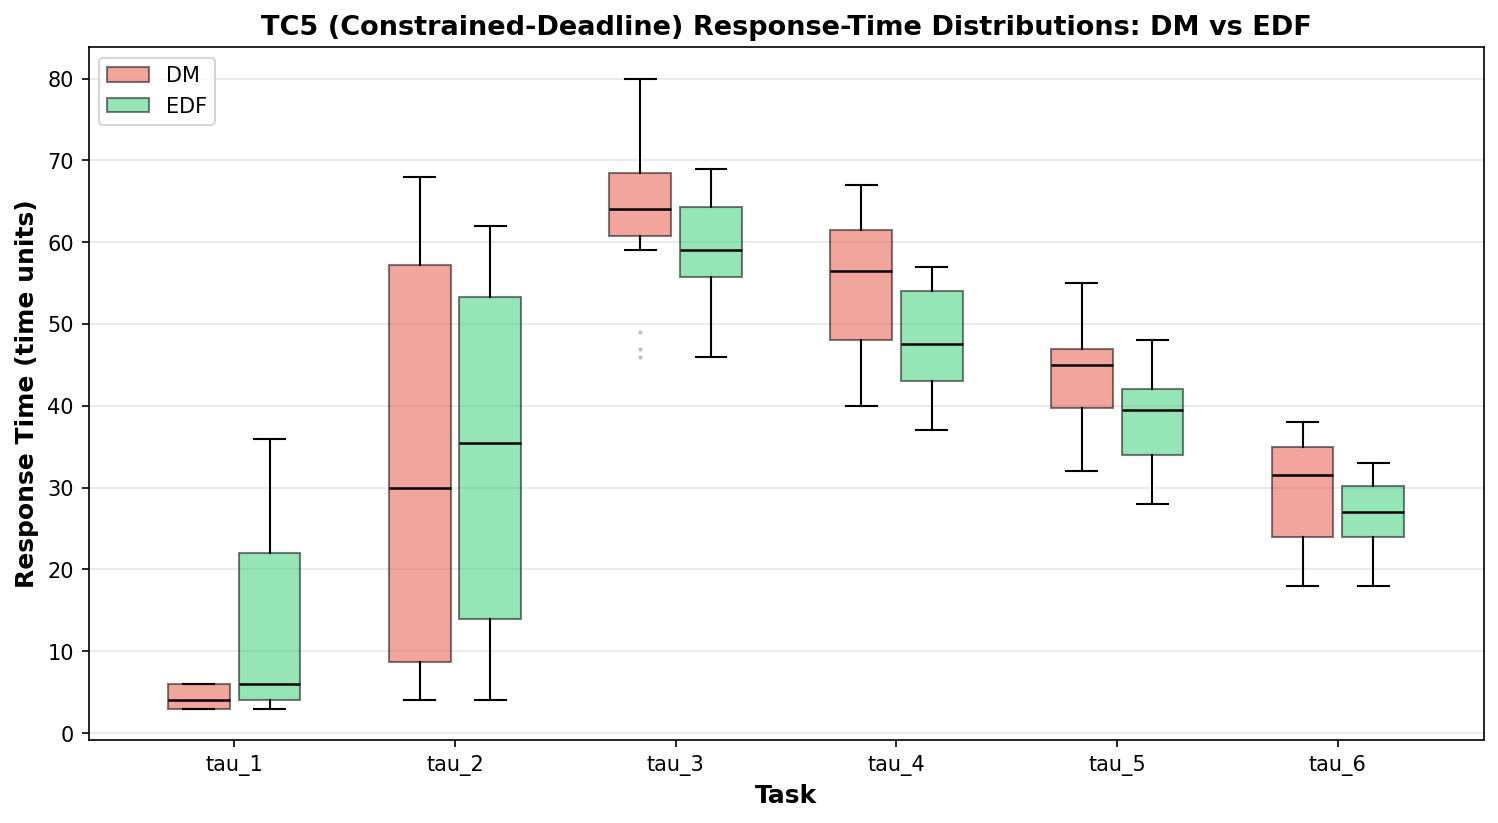
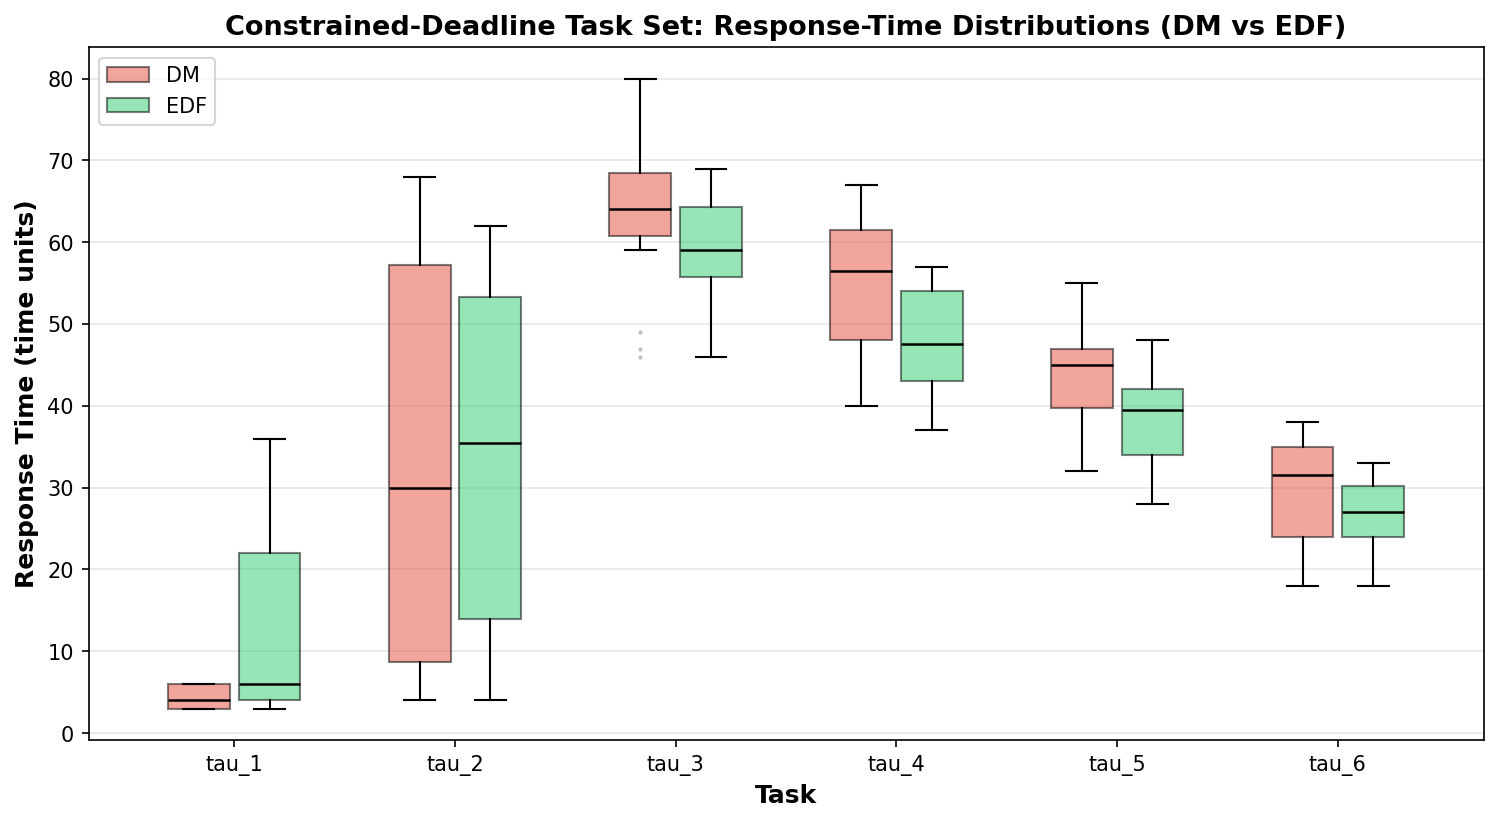
Add overload analysis, fix TC5 boxplot, add fraction-schedulable figure
Adds overload deadline-miss experiment (DM vs EDF under U>1) with CSV output,
regenerates fig8 TC5 boxplot with corrected U=0.89 utilization, adds missing
fig4 fraction-schedulable plot, and updates .gitignore.

Changed region(s): [[0.1535, 0.0, 0.8905, 0.0608]]

diff --git a/scheduler_analysis.py b/scheduler_analysis.py
@@ -7,6 +7,7 @@ from dataclasses import dataclass, field
 from typing import List, Tuple, Dict, Optional, Any
 from enum import Enum
 import random
+from scipy.stats import truncnorm
 
 
 MAX_EXACT_HYPERPERIOD = 10**7
@@ -34,14 +35,23 @@ def dm_rta(tasks: pd.DataFrame) -> Tuple[pd.DataFrame, Tuple[bool, str]]:
     Deadline Monotonic Response Time Analysis (RTA).
 
     Computes worst-case response times for each task under DM scheduling.
-    Tasks are prioritized by increasing relative deadlines.
+    Tasks are prioritized by increasing relative deadline; ties broken by
+    original task index (smaller index = higher priority).
 
-    Algorithm (Buttazzo Fig. 4.17):
-    1. Sort tasks by non-decreasing D_i (DM priority order)
+    Algorithm (Audsley et al. 1993; Buttazzo Fig. 4.17):
+    1. Sort tasks by non-decreasing D_i, breaking ties by original index.
     2. For each task i, compute R_i iteratively:
        R_i^(0) = C_i
-       R_i^(s) = C_i + sum_{h<i} ceil(R_i^(s-1) / T_h) * C_h
-       Stop when converged or R_i > D_i (deadline miss)
+       R_i^(s) = C_i + sum_{j in hp(i)} ceil(R_i^(s-1) / T_j) * C_j
+       where hp(i) is the set of tasks with strictly higher DM priority,
+       i.e. D_j < D_i, OR (D_j == D_i AND orig_index_j < orig_index_i).
+       Stop when converged or R_i > D_i (deadline miss).
+
+    Note on equal-deadline tasks: the standard formula uses D_j < D_i
+    (strict inequality), which would omit interference from tasks that share
+    the same relative deadline but have higher priority under the tie-breaking
+    rule.  By sorting on (D_i, original_index) and summing over h < i, we
+    correctly include those same-deadline, higher-priority tasks.
 
     Returns:
         tasks: DataFrame with added "Ri_DM" column
@@ -66,7 +76,11 @@ def dm_rta(tasks: pd.DataFrame) -> Tuple[pd.DataFrame, Tuple[bool, str]]:
         for iteration in range(max_iterations):
             R_old = R
 
-            # compute interference from higher-priority tasks (h < i)
+            # Interference from all tasks with strictly higher DM priority.
+            # After sorting by (Deadline, orig_idx), every task h < i has
+            # either D_h < D_i, or D_h == D_i with a smaller original index
+            # (i.e. higher tie-break priority).  Both cases contribute
+            # preemption interference.
             I = 0
             for h in range(i):
                 Ch = int(tasks.loc[h, "WCET"])
@@ -230,7 +244,11 @@ def edf_wcrt_schedule_construction(tasks: pd.DataFrame) -> Tuple[pd.DataFrame, T
         tasks["Ri_EDF"] = ["NOT_COMPUTED"] * n
         return tasks, (False, f"Hyperperiod H={H} exceeds exact-analysis cap {MAX_EXACT_HYPERPERIOD}")
 
-    #generate all jobs released in [0, H)
+    # Generate all jobs released in [0, H).  Jobs whose release time is near H
+    # may not complete until after H; the simulation loop below runs until every
+    # released job finishes, so their finish times are recorded correctly and
+    # included in the WCRT max.  Terminating at exactly H would miss those
+    # completion times and could under-estimate the WCRT.
     jobs = []
     for i in range(n):
         Ti = int(tasks.loc[i, "Period"])
@@ -321,12 +339,25 @@ def edf_wcrt_schedule_construction(tasks: pd.DataFrame) -> Tuple[pd.DataFrame, T
 
 def run_stochastic_simulation_stats(tasks: pd.DataFrame, policy: str,
                                     num_runs: int, sim_time: int,
-                                    seed: int = 42) -> Dict[str, Any]:
-    """Aggregate observed max/mean/p95 response times across stochastic runs."""
+                                    seed: int = 42,
+                                    convergence_patience: int = 10) -> Dict[str, Any]:
+    """Aggregate observed max/mean/p95 response times across stochastic runs.
+
+    Stopping condition:
+    The simulation always runs for at least ``num_runs`` independent runs.
+    Additionally, early termination is applied: if no task's observed maximum
+    response time has improved for ``convergence_patience`` consecutive runs,
+    we conclude that additional runs are unlikely to discover a new worst case
+    and stop early.  This provides an analytically-motivated bound: once the
+    empirical maxima have stabilised over an interval of
+    ``convergence_patience`` hyperperiods, further sampling yields diminishing
+    returns.
+    """
     n = len(tasks)
     all_rts = {i: [] for i in range(n)}
     observed_max = {i: 0 for i in range(n)}
     total_deadline_misses = 0
+    no_improvement_streak = 0
 
     for run in range(num_runs):
         sim = simulate_schedule(
@@ -337,13 +368,24 @@ def run_stochastic_simulation_stats(tasks: pd.DataFrame, policy: str,
             seed=seed + run,
         )
 
+        improved = False
         for i in range(n):
             rts = sim['response_times'].get(i, [])
             all_rts[i].extend(rts)
             if rts:
-                observed_max[i] = max(observed_max[i], max(rts))
+                new_max = max(rts)
+                if new_max > observed_max[i]:
+                    observed_max[i] = new_max
+                    improved = True
 
         total_deadline_misses += sum(sim['deadline_misses'].values())
+
+        if improved:
+            no_improvement_streak = 0
+        else:
+            no_improvement_streak += 1
+            if no_improvement_streak >= convergence_patience:
+                break
 
     mean_rt = {
         i: (float(np.mean(all_rts[i])) if all_rts[i] else None)
@@ -359,7 +401,7 @@ def run_stochastic_simulation_stats(tasks: pd.DataFrame, policy: str,
         'observed_mean_rt': mean_rt,
         'observed_p95_rt': p95_rt,
         'total_deadline_misses': total_deadline_misses,
-        'num_runs': num_runs,
+        'num_runs': run + 1,  # actual runs executed
     }
 
 
@@ -434,12 +476,35 @@ class DiscreteEventSimulator:
             sorted_indices = sorted(range(self.n), key=lambda i: (deadlines[i], i))
             self.dm_priority = {idx: rank for rank, idx in enumerate(sorted_indices)}
 
-    def sample_execution_time(self, task_id: int) -> int:
-        """Sample execution time from [BCET, WCET] uniformly."""
+    def sample_execution_time(self, task_id: int,
+                               distribution: str = "truncnorm") -> int:
+        """Sample execution time from [BCET, WCET].
+
+        Args:
+            distribution: "uniform"   – draw uniformly from [BCET, WCET].
+                          "truncnorm" – draw from a truncated normal whose
+                                        mean is the midpoint and whose sigma
+                                        is chosen so that most mass sits near
+                                        the average (sigma = range / 4).
+                                        This is more realistic than uniform
+                                        because real execution times cluster
+                                        around their average rather than being
+                                        flat across the whole range.
+        """
         if self.use_wcet:
             return self.task_params[task_id]['C']
         B = self.task_params[task_id]['B']
         C = self.task_params[task_id]['C']
+        if B == C:
+            return C
+        if distribution == "truncnorm":
+            mu = (B + C) / 2.0
+            sigma = (C - B) / 4.0
+            a, b = (B - mu) / sigma, (C - mu) / sigma
+            sample = truncnorm.rvs(a, b, loc=mu, scale=sigma,
+                                   random_state=self.rng.randint(0, 2**31))
+            return int(round(min(C, max(B, sample))))
+        # default: uniform
         return self.rng.randint(B, C)
 
     def get_priority(self, job: SimJob) -> Tuple:

diff --git a/experiments.py b/experiments.py
@@ -181,6 +181,88 @@ def compute_fraction_schedulable(results_df: pd.DataFrame) -> pd.DataFrame:
     return pd.DataFrame(summary)
 
 
+def run_overload_deadline_miss_analysis(
+    overload_utilization: float = 1.05,
+    n_tasksets: int = 100,
+    n_tasks: int = 6,
+    sim_hyperperiods: int = 4,
+    max_sim_time: int = 50_000,
+    seed: int = 0,
+    output_dir: str = 'data',
+    verbose: bool = False,
+) -> pd.DataFrame:
+    """
+    Analyse deadline miss distributions under slight overload (U > 1).
+
+    Generates random constrained-deadline task sets at the given utilization,
+    runs stochastic simulations under both DM and EDF, and reports how misses
+    are distributed across priority levels.  This illustrates the difference
+    between EDF's balanced degradation and DM's low-priority starvation.
+
+    Args:
+        max_sim_time: Hard cap on simulation time to prevent very-large-H task
+                      sets from hanging.  Default is 50 000 time units.
+
+    Returns:
+        DataFrame with per-task miss counts and fractions under DM and EDF.
+    """
+    from scheduler_analysis import simulate_schedule, compute_hyperperiod
+
+    log = print if verbose else (lambda *args, **kwargs: None)
+    log(f"\nOverload analysis at U={overload_utilization:.2f} "
+        f"({n_tasksets} task sets, {n_tasks} tasks each)")
+
+    rows = []
+
+    for sample in range(n_tasksets):
+        try:
+            taskset = uunifast.generate_constrained_taskset(n_tasks, overload_utilization)
+            H = compute_hyperperiod(taskset["Period"].tolist())
+            sim_time = min(H * sim_hyperperiods, max_sim_time)
+
+            dm_sim = simulate_schedule(taskset, policy="DM", use_wcet=False,
+                                       max_sim_time=sim_time, seed=seed + sample)
+            edf_sim = simulate_schedule(taskset, policy="EDF", use_wcet=False,
+                                        max_sim_time=sim_time, seed=seed + sample)
+
+            # Sort tasks by DM priority (ascending deadline)
+            task_deadlines = taskset["Deadline"].tolist()
+            priority_order = sorted(range(n_tasks), key=lambda i: (task_deadlines[i], i))
+
+            dm_total = sum(dm_sim['deadline_misses'].values()) or 1
+            edf_total = sum(edf_sim['deadline_misses'].values()) or 1
+
+            for rank, task_id in enumerate(priority_order):
+                rows.append({
+                    'sample': sample,
+                    'priority_rank': rank,           # 0 = highest DM priority
+                    'task_id': task_id,
+                    'deadline': task_deadlines[task_id],
+                    'dm_misses': dm_sim['deadline_misses'].get(task_id, 0),
+                    'edf_misses': edf_sim['deadline_misses'].get(task_id, 0),
+                    'dm_miss_fraction': dm_sim['deadline_misses'].get(task_id, 0) / dm_total,
+                    'edf_miss_fraction': edf_sim['deadline_misses'].get(task_id, 0) / edf_total,
+                })
+        except Exception as e:
+            log(f"  Sample {sample} failed: {e}")
+
+    results_df = pd.DataFrame(rows)
+
+    os.makedirs(output_dir, exist_ok=True)
+    out_path = os.path.join(output_dir, 'overload_deadline_misses.csv')
+    results_df.to_csv(out_path, index=False)
+    log(f"Saved to {out_path}")
+
+    if not results_df.empty:
+        summary = results_df.groupby('priority_rank')[
+            ['dm_miss_fraction', 'edf_miss_fraction']
+        ].mean()
+        log("\nAverage miss fraction by priority rank (0=highest DM priority):")
+        log(summary.to_string())
+
+    return results_df
+
+
 if __name__ == "__main__":
     results_df = run_utilization_sweep(
         utilization_levels=[0.5, 0.6, 0.7, 0.75, 0.8, 0.85, 0.9, 0.95, 1.0],
@@ -190,9 +272,9 @@ if __name__ == "__main__":
         output_dir='data',
         verbose=True,
     )
-    
+
     summary_df = compute_fraction_schedulable(results_df)
     summary_df.to_csv('data/fraction_schedulable_summary.csv', index=False)
-    
+
     print("\nFraction Schedulable Summary:")
     print(summary_df.to_string(index=False))

diff --git a/visualizations.py b/visualizations.py
@@ -149,7 +149,15 @@ def plot_preemptions(results_df, output_file=None):
     return _save_or_return(fig, output_file)
 
 
-def _tc5_boxplot_taskset() -> pd.DataFrame:
+def _cd_boxplot_taskset() -> pd.DataFrame:
+    """Load the constrained-deadline task set used for the Figure 8 boxplot.
+
+    This is a separate, constrained-deadline task set (D_i < T_i for several
+    tasks).  It is deliberately distinct from the TC5 task set defined in
+    Table 5 of the report (which has D_i = T_i for every task).  Do not
+    confuse the two: this function returns the *constrained-deadline* variant
+    used only for the response-time distribution plot.
+    """
     return _require_plot_taskset(REPORT_PLOT_TASKSETS["fig8"])
 
 
@@ -178,7 +186,7 @@ def _collect_stochastic_response_times(tasks: pd.DataFrame, policy: str,
 
 def _build_fig8_samples_df() -> pd.DataFrame:
     """Build long-format samples for Figure 8 and persist as CSV upstream."""
-    tasks = _tc5_boxplot_taskset()
+    tasks = _cd_boxplot_taskset()
     dm_samples = _collect_stochastic_response_times(tasks, "DM")
     edf_samples = _collect_stochastic_response_times(tasks, "EDF")
 
@@ -284,7 +292,7 @@ def plot_response_time_boxplots_tc5(fig8_df: pd.DataFrame, output_file=None):
     ax.set_xticklabels(task_names)
     ax.set_xlabel("Task", fontsize=12, fontweight="bold")
     ax.set_ylabel("Response Time (time units)", fontsize=12, fontweight="bold")
-    ax.set_title("TC5 (Constrained-Deadline) Response-Time Distributions: DM vs EDF", fontsize=13, fontweight="bold")
+    ax.set_title("Constrained-Deadline Task Set: Response-Time Distributions (DM vs EDF)", fontsize=13, fontweight="bold")
     ax.grid(axis="y", alpha=0.3)
     legend_handles = [
         Patch(facecolor="#e74c3c", edgecolor="black", alpha=0.5, label="DM"),
